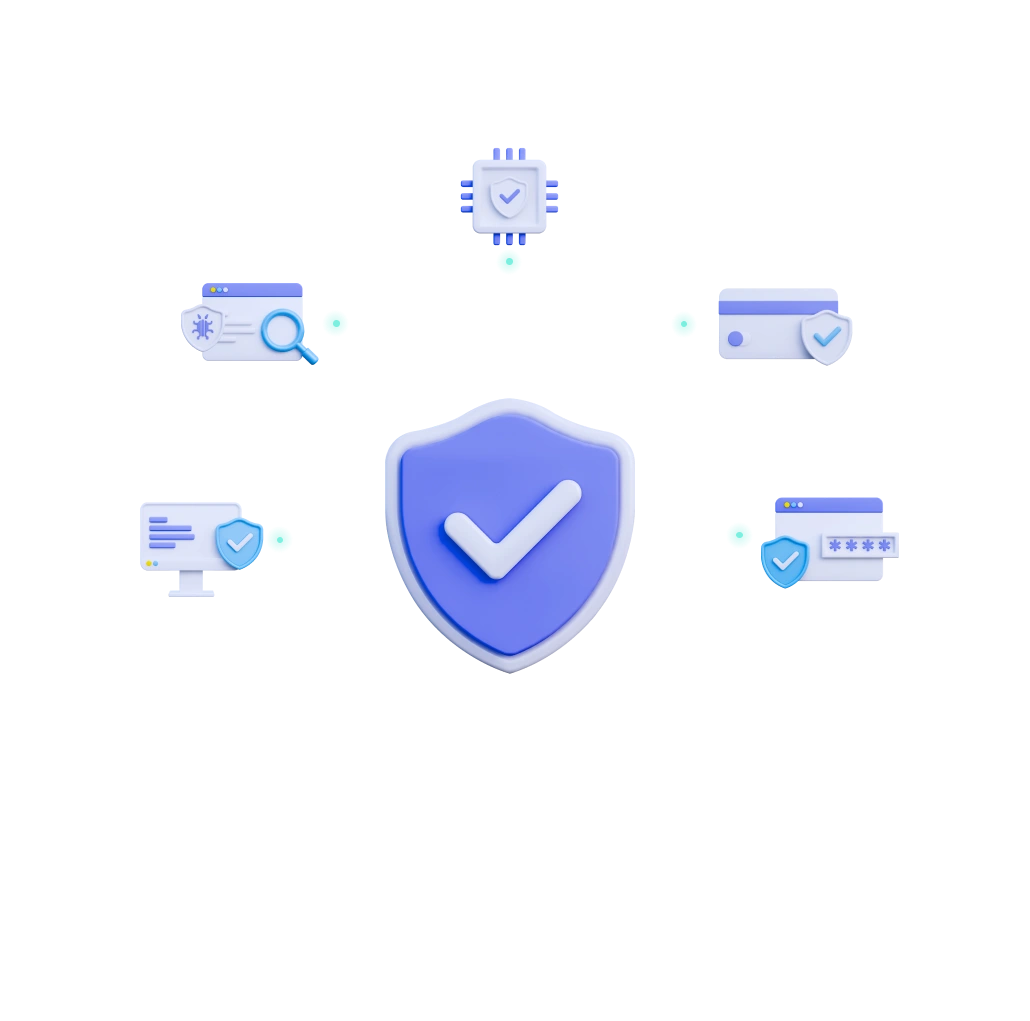
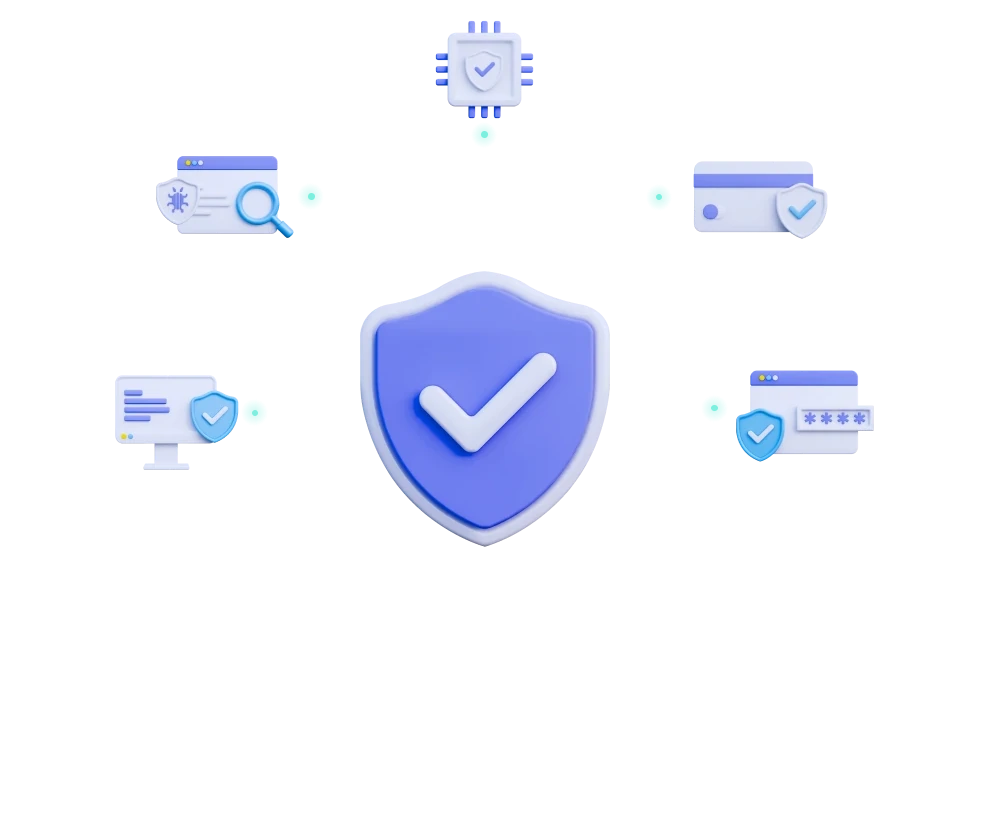
Refactor hero section layout and rebrand to DBara
- Restructure hero into separate content and curve sections
- Replace Cytrix branding with DBara throughout
- Add hover animation to hero image
- Update CTA button with ArrowRight icon and new styling
- Add curved bottom background with hero-curve.webp
- Remove unused floatIcons configuration

diff --git a/src/components/sections/HeroSection.tsx b/src/components/sections/HeroSection.tsx
@@ -2,135 +2,131 @@ import { Dot } from "@/components/Dot";
 import { EmailForm } from "@/components/EmailForm";
 import { Navbar } from "@/components/Navbar";
 import Container from "../Container";
-
-// const floatIcons = [
-//   {
-//     id: "icon-browser-scan",
-//     className: "top-[-6px] left-[18%] [animation-delay:0.2s]",
-//   },
-//   {
-//     id: "icon-chip-shield",
-//     className: "top-[8%] right-[6%] size-16 [animation-delay:1.1s]",
-//   },
-//   {
-//     id: "icon-monitor-shield",
-//     className: "bottom-[14%] left-0 [animation-delay:0.6s]",
-//   },
-//   {
-//     id: "icon-card-shield",
-//     className: "bottom-0 right-[12%] [animation-delay:1.6s]",
-//   },
-// ] as const;
+import { ArrowRight } from "lucide-react";
 
 export function HeroSection() {
   return (
-    <div className="relative overflow-hidden rounded-b-lg bg-(image:--bg-hero) pb-30 md:pb-42.5">
-      <Container>
-        <Dot className="top-30 left-[6%]" />
-        <Dot small className="top-60 left-[48%]" />
-        <Dot className="top-20 right-[8%]" />
-        <Dot small className="top-95 right-[4%]" />
-        <Dot small className="top-107.5 left-[3%]" />
+    <div>
+      <div className="relative rounded-b-lg bg-(image:--bg-hero)">
+        <Container>
+          <Dot className="top-30 left-[6%]" />
+          <Dot small className="top-60 left-[48%]" />
+          <Dot className="top-20 right-[8%]" />
+          <Dot small className="top-95 right-[4%]" />
+          <Dot small className="top-107.5 left-[3%]" />
 
-        <Navbar />
+          <Navbar />
 
-        <div>
-          <div
-            id="home"
-            className="relative z-5 grid items-center justify-center gap-12.5 pt-17.5 lg:grid-cols-[1.05fr_0.95fr]"
-          >
-            <div>
-              <h1 className="text-5xl font-semibold text-white md:text-[3.4rem] lg:text-[4.4rem] text-center lg:text-justify font-sora">
-                Your Cyber
-                <br />
-                Guardians
-              </h1>
-            </div>
-            <div>
-              <p className="mb-7 text-[1.02rem] text-faint text-center lg:text-justify font-medium">
-                At Cytrix we understand the ever-growing threat landscape of the
-                digital world. Our mission is to provide comprehensive cyber
-                security services that protect your digital frontiers.
-              </p>
-              <EmailForm />
-            </div>
-          </div>
-
-          <div className="relative z-5 mt-16 flex items-center justify-between gap-6 pt-8.5 text-center lg:text-left">
-            <div className="flex items-center justify-center gap-4 lg:justify-start">
-              <div className="flex" aria-hidden>
-                <img
-                  src="https://images.unsplash.com/photo-1507003211169-0a1dd7228f2d?w=92&h=92&fit=crop&crop=faces"
-                  alt=""
-                  className="-ml-3.5 size-12 rounded-full border-3 border-primary object-cover first:ml-0"
-                />
-                <img
-                  src="https://images.unsplash.com/photo-1494790108377-be9c29b29330?w=92&h=92&fit=crop&crop=faces"
-                  alt=""
-                  className="-ml-3.5 size-12 rounded-full border-3 border-primary object-cover"
-                />
-                <div className="-ml-3.5 flex size-12 items-center justify-center rounded-full border-2 border-white/40 bg-white/60 backdrop-blur-none font-heading text-[0.85rem] font-bold text-navy-900">
-                  8k+
-                </div>
-              </div>
-              <p className="m-0 text-[0.92rem] font-medium text-[#cdd9e4]">
-                Active client with
-                <br />
-                positive reviews
-              </p>
-            </div>
-
-            <div className="flex items-center justify-center gap-3.5 lg:justify-end">
-              <p>icon</p>
-              <p className="m-0 text-[0.92rem] font-medium text-[#cdd9e4]">
-                <strong className="text-base bg-(image:--accent-gradient) bg-clip-text text-transparent">
-                  2026
-                </strong>{" "}
-                The world best
-                <br />
-                Cyber Security Services
-              </p>
-            </div>
-          </div>
-
-          <div className="grid place-items-center -mt-52">
-            <img src="/hero.webp" alt="hero-image" />
-          </div>
-        </div>
-
-        {/* <a
-          href="#about"
-          className="absolute -bottom-14.5 left-1/2 z-20 flex size-29.5 -translate-x-1/2 items-center justify-center rounded-full bg-(--accent-gradient) shadow-[0_16px_40px_-12px_rgba(61,220,151,0.55)]"
-          aria-label="Get started"
-        >
-          <svg
-            className="absolute inset-0 animate-spin-slow"
-            viewBox="0 0 118 118"
-            aria-hidden
-          >
-            <defs>
-              <path
-                id="circlePath"
-                d="M 59,59 m -46,0 a 46,46 0 1,1 92,0 a 46,46 0 1,1 -92,0"
-              />
-            </defs>
-            <text
-              fontFamily="Poppins, sans-serif"
-              fontSize="9.5"
-              fontWeight="700"
-              fill="#16321f"
-              letterSpacing="2"
+          <div>
+            <div
+              id="home"
+              className="relative z-5 grid items-center justify-center gap-12.5 pt-17.5 lg:grid-cols-[1.05fr_0.95fr]"
             >
-              <textPath href="#circlePath">
-                GET STARTED • GET STARTED • GET STARTED •{" "}
-              </textPath>
-            </text>
-          </svg>
-          <div className="relative z-2 flex size-11.5 items-center justify-center rounded-full bg-navy-800">
-            <p>icon</p>
+              <div>
+                <h1 className="text-5xl font-semibold text-white md:text-[3.4rem] lg:text-[4.4rem] text-center lg:text-justify font-sora">
+                  Your Cyber
+                  <br />
+                  Guardians
+                </h1>
+              </div>
+              <div>
+                <p className="mb-7 text-[1.02rem] text-faint text-center lg:text-justify font-medium">
+                  At DBara we understand the ever-growing threat landscape of
+                  the digital world. Our mission is to provide comprehensive
+                  cyber security services that protect your digital frontiers.
+                </p>
+                <EmailForm />
+              </div>
+            </div>
+
+            <div className="relative z-5 mt-8 md:mt-16 flex flex-col md:flex-row items-start md:items-center justify-between gap-6 pt-8.5 text-center lg:text-left">
+              <div className="flex items-center justify-center gap-4 lg:justify-start">
+                <div className="flex" aria-hidden>
+                  <img
+                    src="https://images.unsplash.com/photo-1507003211169-0a1dd7228f2d?w=92&h=92&fit=crop&crop=faces"
+                    alt=""
+                    className="-ml-3.5 size-12 rounded-full border-3 border-primary object-cover first:ml-0"
+                  />
+                  <img
+                    src="https://images.unsplash.com/photo-1494790108377-be9c29b29330?w=92&h=92&fit=crop&crop=faces"
+                    alt=""
+                    className="-ml-3.5 size-12 rounded-full border-3 border-primary object-cover"
+                  />
+                  <div className="-ml-3.5 flex size-12 items-center justify-center rounded-full border-2 border-white/40 bg-white/60 backdrop-blur-none font-heading text-[0.85rem] font-bold text-navy-900">
+                    8k+
+                  </div>
+                </div>
+                <p className="m-0 text-[0.92rem] font-medium text-[#cdd9e4]">
+                  Active client with
+                  <br />
+                  positive reviews
+                </p>
+              </div>
+
+              <div className="flex items-center justify-center gap-3.5 lg:justify-end">
+                <p>icon</p>
+                <p className="m-0 text-[0.92rem] font-medium text-[#cdd9e4]">
+                  <strong className="text-base bg-(image:--accent-gradient) bg-clip-text text-transparent">
+                    2026
+                  </strong>{" "}
+                  The world best
+                  <br />
+                  Cyber Security Services
+                </p>
+              </div>
+            </div>
+
+            <div className="grid place-items-center">
+              <img
+                src="/hero.webp"
+                className="hover:-translate-y-10 transition-all duration-600"
+                alt="hero-image"
+              />
+            </div>
           </div>
-        </a> */}
-      </Container>
+
+          <a
+            href="#about"
+            className="absolute -bottom-8 md:-bottom-17 left-1/2 z-20 flex size-20 md:size-39.5 -translate-x-1/2 items-center justify-center rounded-full bg-(image:--accent-gradient) shadow-[0_16px_40px_-12px_rgba(61,220,151,0.55)]"
+            aria-label="Get started"
+          >
+            <svg
+              className="absolute inset-2 animate-spin-slow"
+              viewBox="0 0 118 118"
+              aria-hidden
+            >
+              <defs>
+                <path
+                  id="circlePath"
+                  d="M 59,59 m -46,0 a 46,46 0 1,1 92,0 a 46,46 0 1,1 -92,0"
+                />
+              </defs>
+              <text
+                // fontFamily="Poppins, sans-serif"
+                className="text-[10px]"
+                // fontSize="8.5"
+                // fontWeight="500"
+                letterSpacing="2"
+              >
+                <textPath href="#circlePath">
+                  GET STARTED • GET STARTED • GET STARTED •{" "}
+                </textPath>
+              </text>
+            </svg>
+            <div className="relative z-2 flex size-11.5 items-center justify-center rounded-full">
+              <ArrowRight className="size-6 md:size-10" strokeWidth={1.2} />
+            </div>
+          </a>
+        </Container>
+      </div>
+      <div className="relative overflow-hidden rounded-b-lg ">
+        <div className="absolute left-1/2 -translate-x-1/2 top-0 bottom-1 w-100 bg-linear-to-r from-[#0b1726] to-[#082039]" />
+        <img
+          src="/hero-curve.webp"
+          className="relative z-10 w-full"
+          alt="Hero curve"
+        />
+      </div>
     </div>
   );
 }
